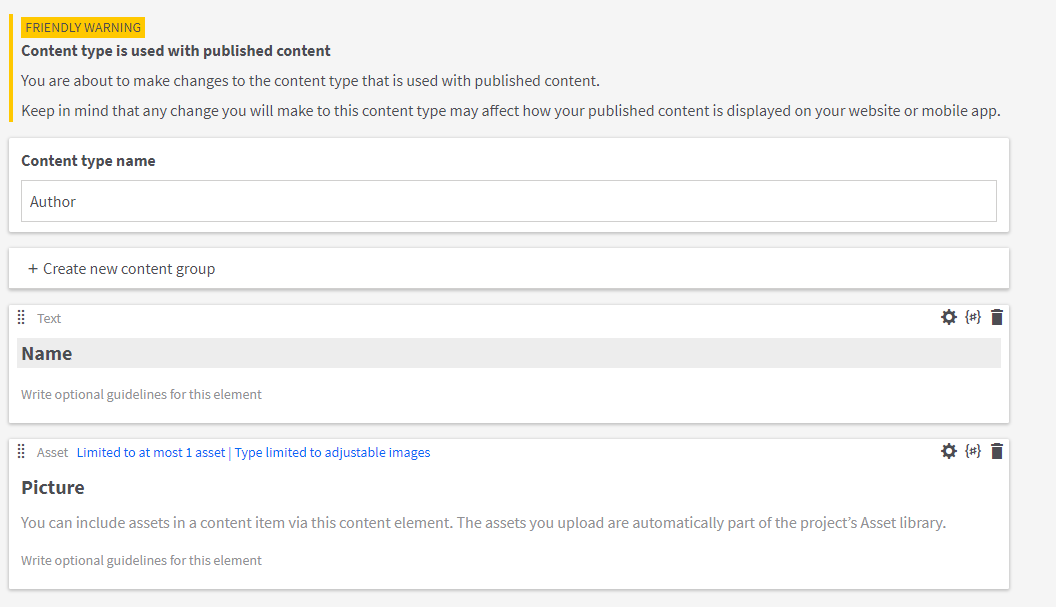
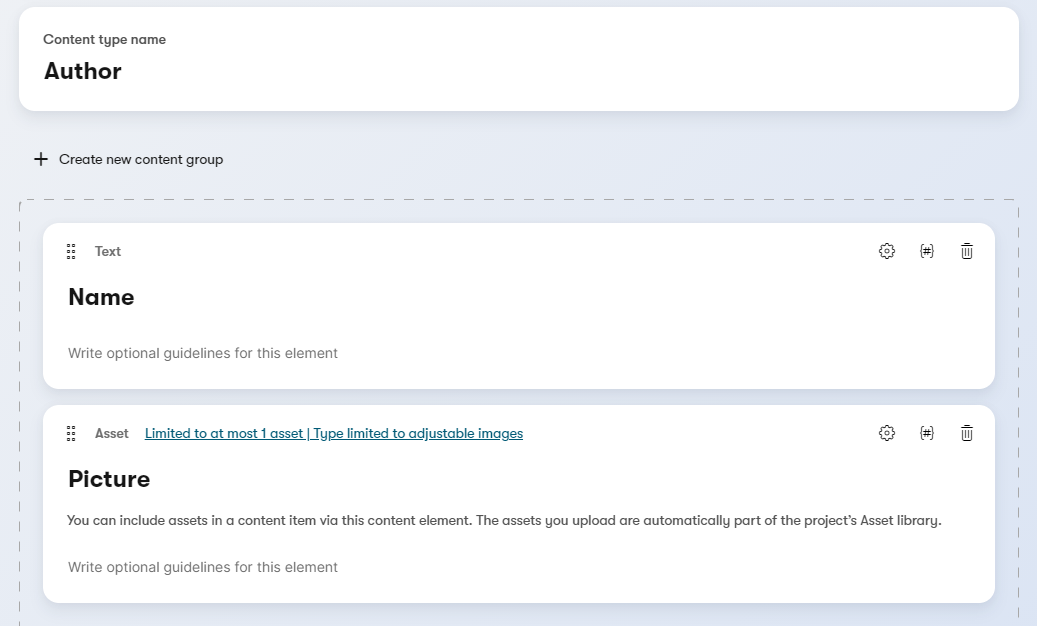
New kontent UI screenshots (#25387)
## Documentation / Examples

Kontent CMS went through the UI redesign - <http://new-ui.kontent.ai/>.
* I am updating the example screenshots.
* \+ one fix of the URL in README.

- example was submitted by me in #16034

- [x] Make sure the linting passes

Changed region(s): [[0.0, 0.0297, 1.0, 1.0]]

diff --git a/examples/cms-kontent/README.md b/examples/cms-kontent/README.md
@@ -68,7 +68,7 @@ To import the content models with their data follow the next steps:
    kbm --action=restore --apiKey=<Management API key> --projectId=<Project ID> --zipFilename=kontent-backup
    ```
 
-   > **💡 Alternatively, you can use the [Template Manager UI](https://kentico.github.io/kontent-template-manager/import-from-file) for importing the content.**
+   > **💡 Alternatively, you can use the [Template Manager UI](https://kentico.github.io/kontent-template-manager/import) for importing the content.**
 
 1. Go to your Kontent project and publish all the imported items.
    > You could deactivate Management API key, it is not necessary any more.
